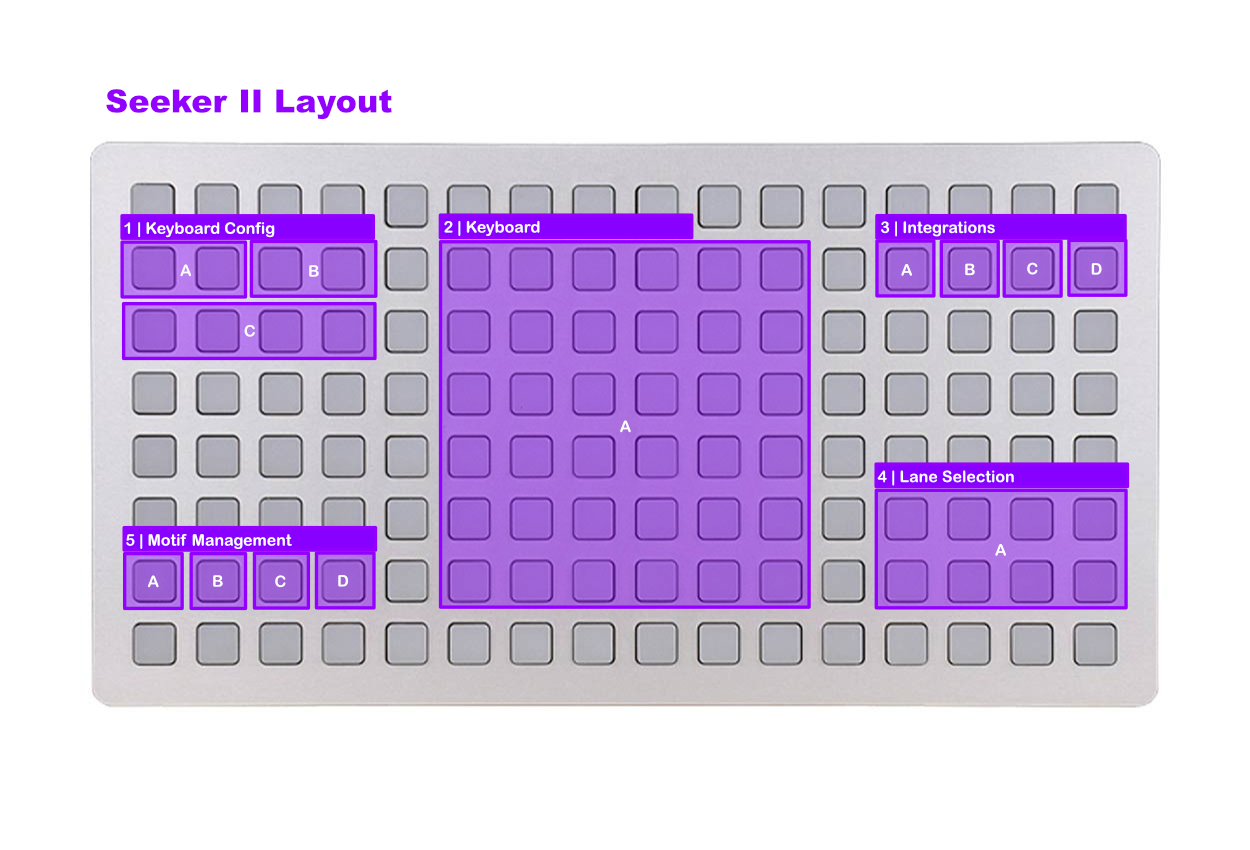
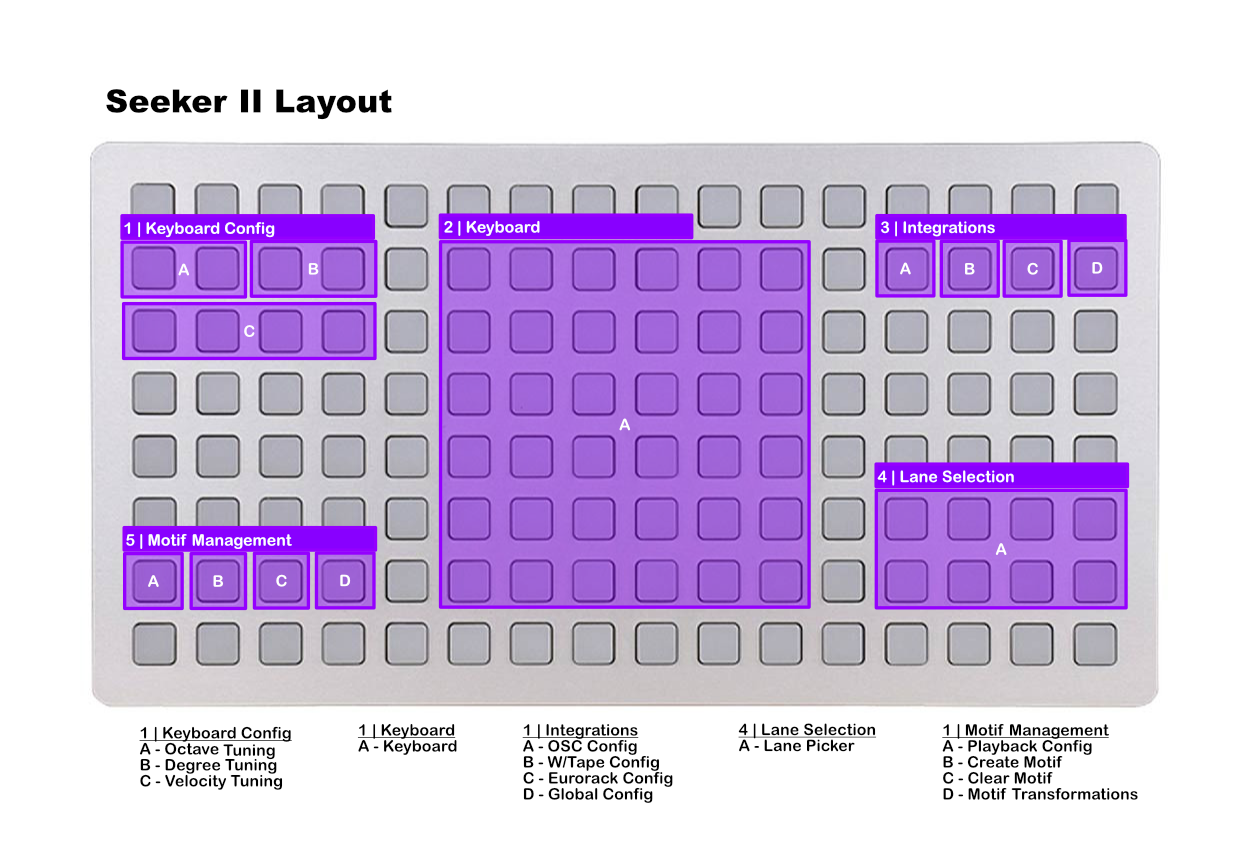
Improved readme

diff --git a/README.md b/README.md
@@ -34,49 +34,49 @@ In Maiden: ;install https://github.com/brokyo/seeker_ii
 ## Layout Details
 ### 1 | Keyboard Config
 - A: Octave Tuning 
--- Left key drops the keyboard octave by one; right key increases it by one
+  - Left key drops the keyboard octave by one; right key increases it by one
 - B: Offset Tuning 
--- Left key drops the keyboard note by one; right key increases it by one
+  - Left key drops the keyboard note by one; right key increases it by one
 - C: Velocity Tuning 
--- Left-to-right increases key velocity
+  - Left-to-right increases key velocity
 
 ### 2 | Keyboard
 - A: Tonnetz-Style Keyboard 
--- Tuned to global set in (3D) 
--- Covers two octaves
--- Illuminated keys are root
--- Vertical keys move by one degree. Horizontal keys move by two degree
+  - Tuned to global set in (3D) 
+  - Covers two octaves
+  - Illuminated keys are root
+  - Vertical keys move by one degree. Horizontal keys move by two degree
 
 ### 3  | Integrations
 - A: OSC Configuration
--- Configure time-synchronized LFOs and clocks
--- Set to TouchDesigner default but configurable at bottom of menu
+  - Configure time-synchronized LFOs and clocks
+  - Set to TouchDesigner default but configurable at bottom of menu
 - B: W/Tape Configuration
--- Record, overdub, and navigate tape
--- NB: Requires manual button combination on W/ Module to enter tape mode
+  - Record, overdub, and navigate tape
+  - NB: Requires manual button combination on W/ Module to enter tape mode
 - C: Eurorack Configuration
--- Configure time-synchronized voltage patterns
--- Crow: Choose from Gate, Burst, LFO, Envelope, Knob Recorder, and Structured Random
--- TXO: Choose from Gate, Burst, LFO, and Stepped Random
+  - Configure time-synchronized voltage patterns
+  - Crow: Choose from Gate, Burst, LFO, Envelope, Knob Recorder, and Structured Random
+  - TXO: Choose from Gate, Burst, LFO, and Stepped Random
 - D: Global Configuration
--- Tuning, clock, and MIDI control affecting entire app.
+  - Tuning, clock, and MIDI control affecting entire app.
 
 ### 4 | Lane Management
 - A: Lane Selection
--- Select lane outputs among supported voices
--- 1 -> 8 lanes available. Each stores its own tuning information
+  - Select lane outputs among supported voices
+  - 1 -> 8 lanes available. Each stores its own tuning information
 
 ### 5 | Motif Management
 - A: Playback Configuration
--- Control playback of recorded motif
--- Shift playback octave, degree, and speed
+  - Control playback of recorded motif
+  - Shift playback octave, degree, and speed
 - B: Create Motif
--- Select between emulated tape and arpeggio
--- Hold grid key (5B) to start recording (Keyboard will blink)
--- Press grid key (5B) again to stop
--- Holding grid key (5B) in tape mode will overdub
+  - Select between emulated tape and arpeggio
+  - Hold grid key (5B) to start recording (Keyboard will blink)
+  - Press grid key (5B) again to stop
+  - Holding grid key (5B) in tape mode will overdub
 - C: Clear Motif
--- Hold grid key (5C) to clear recording. Grid will blink on confirmation
+  - Hold grid key (5C) to clear recording. Grid will blink on confirmation
 - D: Stage Configuration
--- Stages allow for structured changes to motifs
--- Pick from Harmonize, Ratchet, Transpose, Overdub Filter, and Reverse
+  - Stages allow for structured changes to motifs
+  - Pick from Harmonize, Ratchet, Transpose, Overdub Filter, and Reverse
